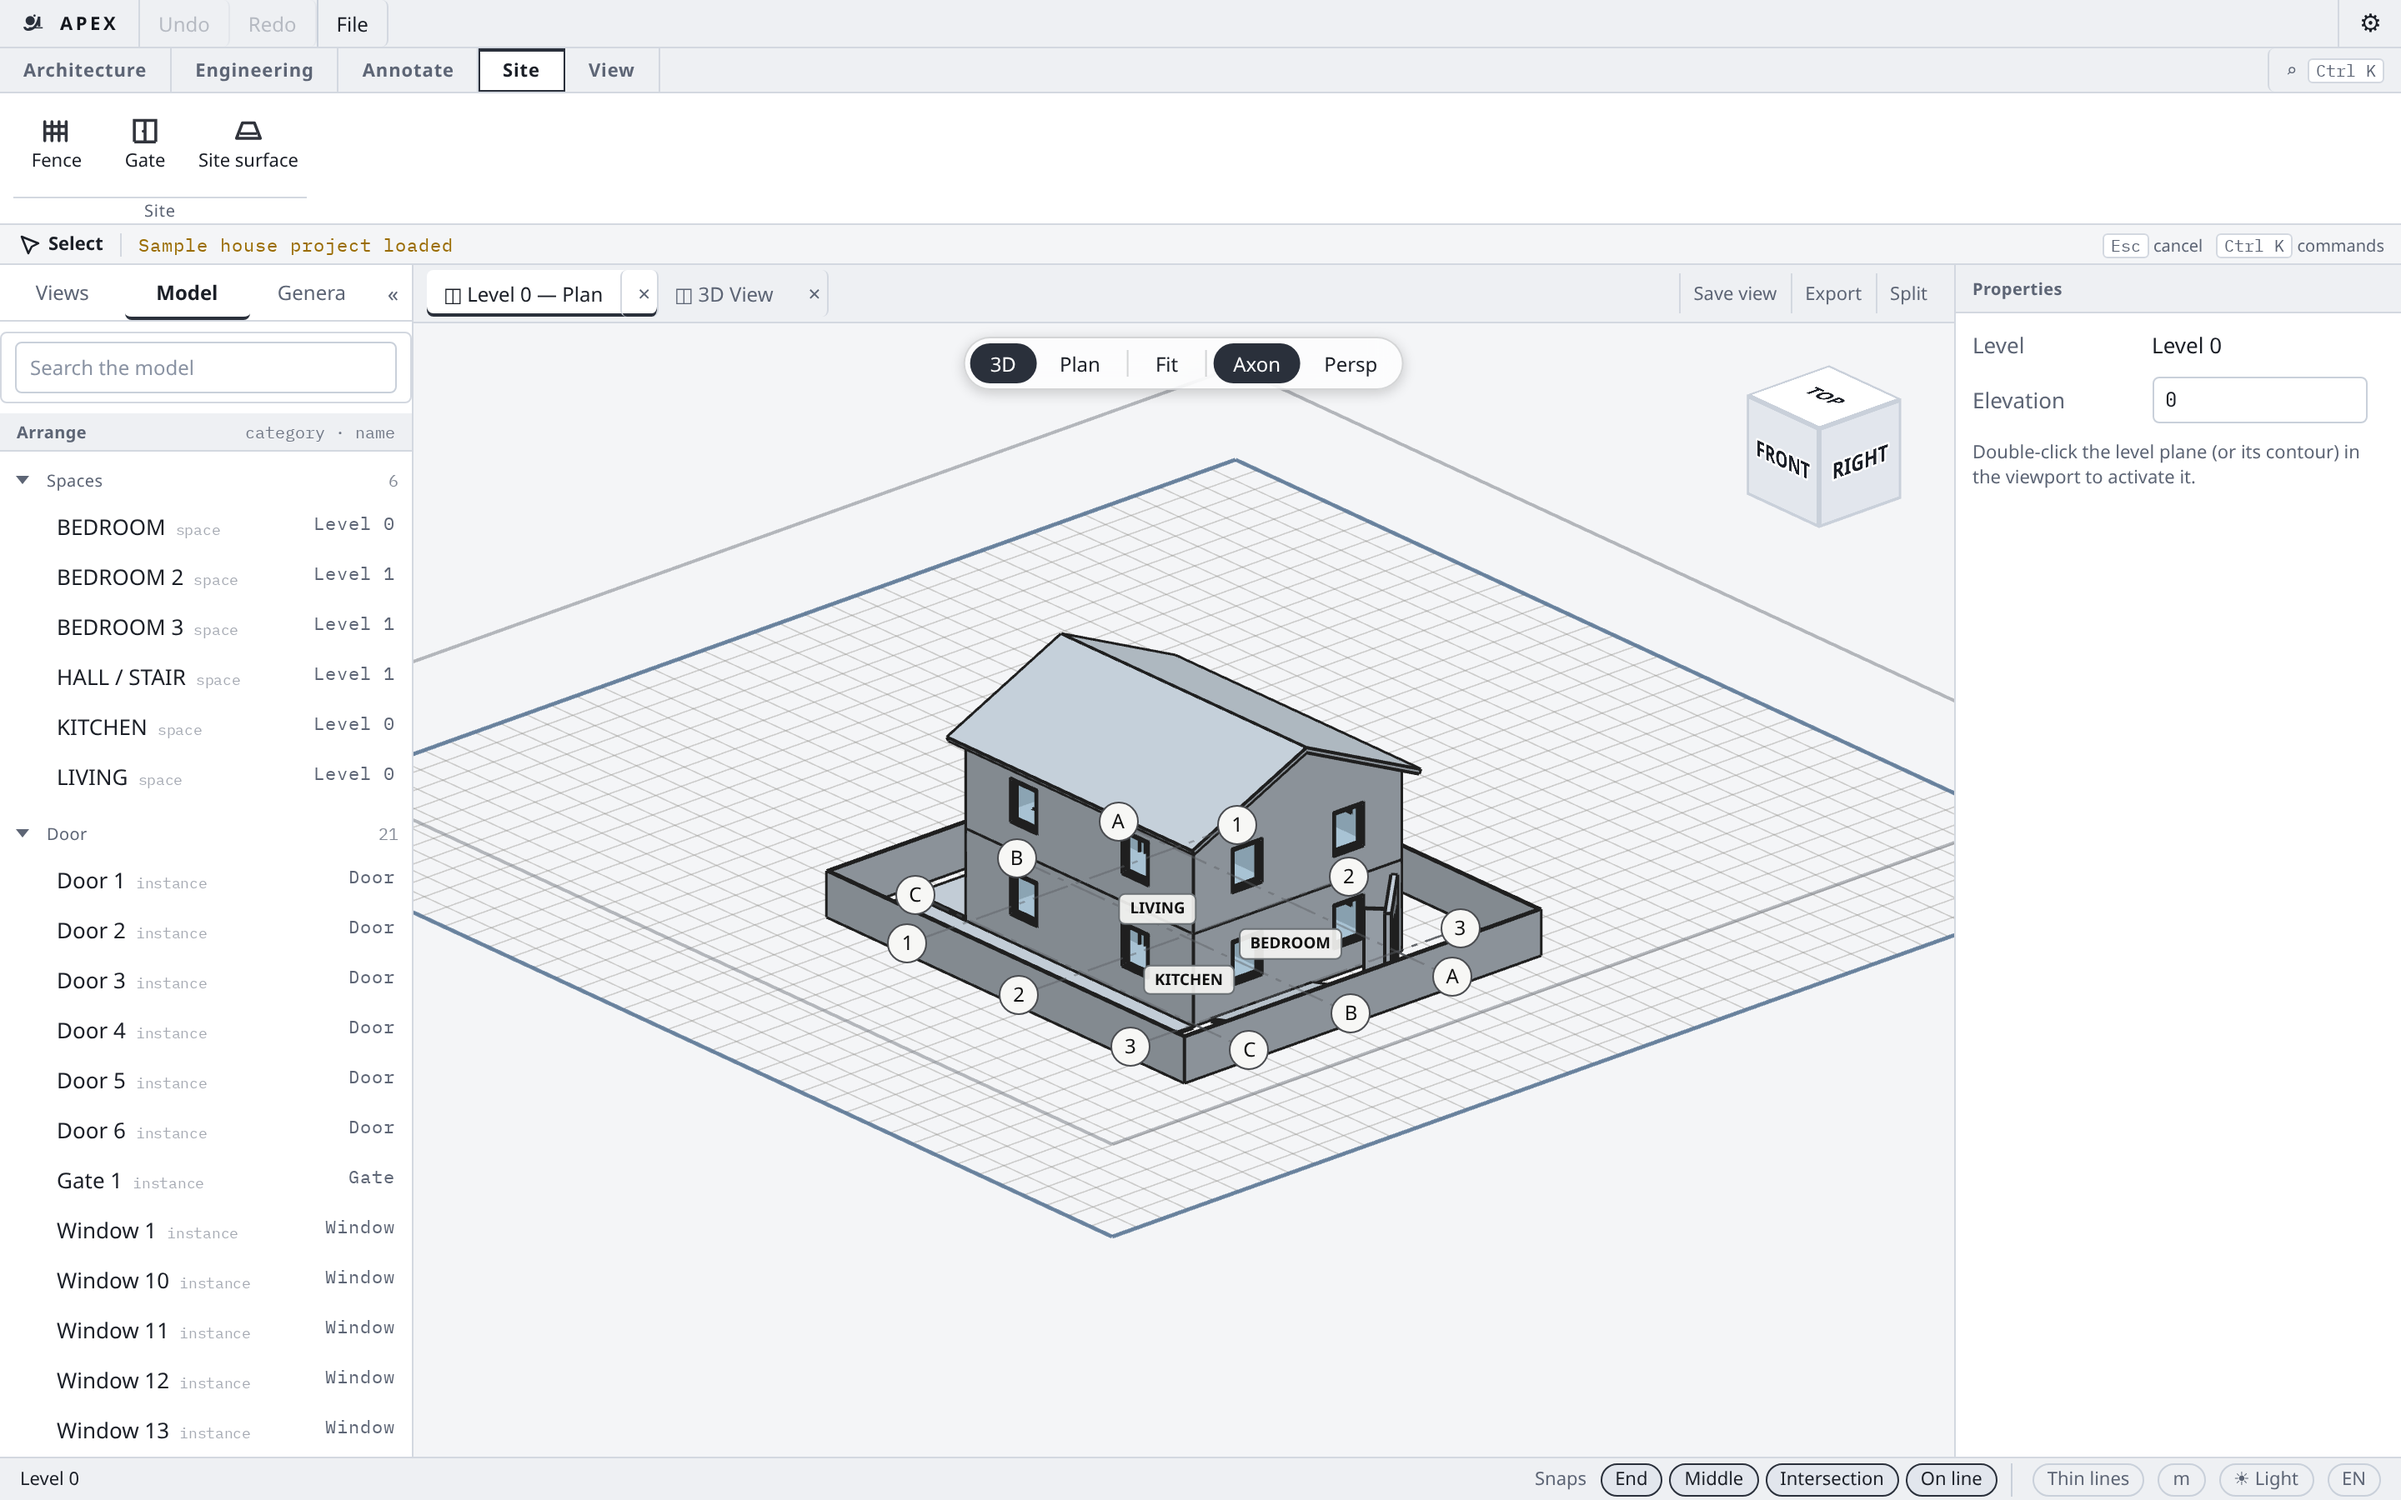
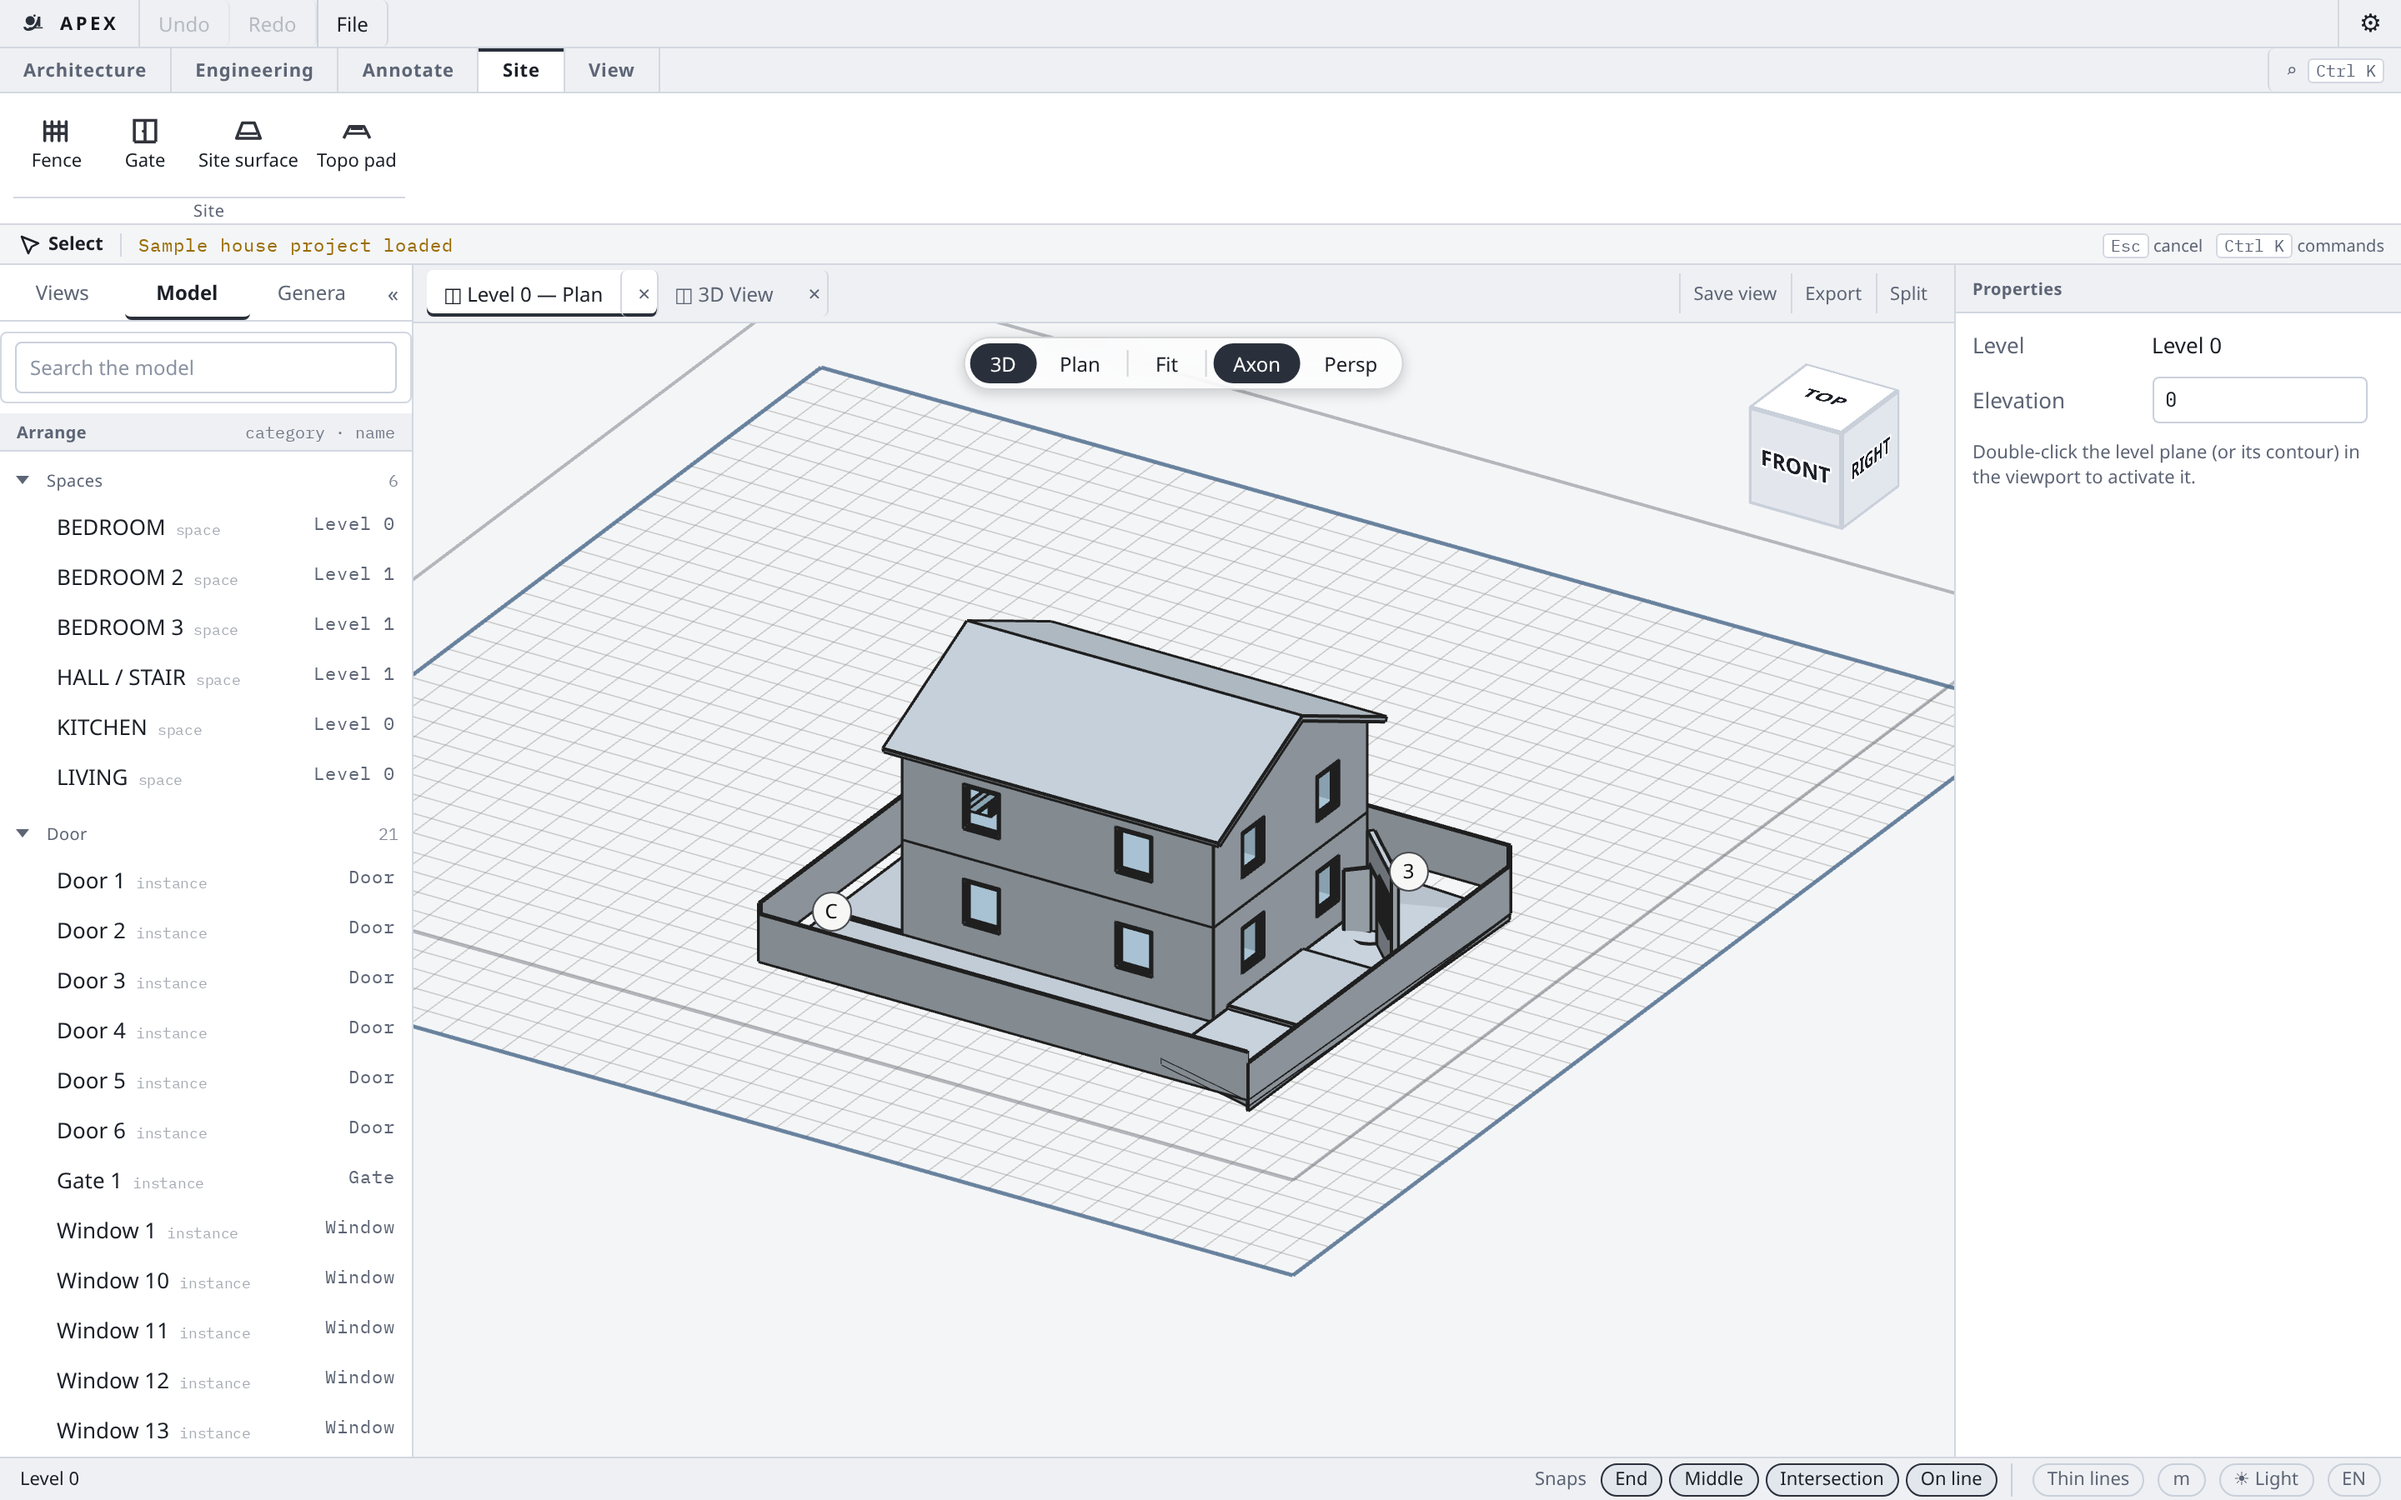
docs: refresh README gallery with yard, topo, and occluded axes
Reshoot full-chrome screenshots on the axis-bubble occlusion tip
(#182) so grid heads no longer punch through solids; include the
graded topo pad and Site tools. Update bilingual EN/RU sample copy
now that topo is on main, and extend the regenerate helper.

diff --git a/README.md b/README.md
@@ -11,7 +11,7 @@ Apex is a lightweight **BIM** app for buildings and site work — walls, opening
 ### What you get
 
 - Place building elements (walls, columns, beams, slabs, doors, windows, stairs, roofs) and **spaces**
-- **Site / landscape** tools: fence, gate, yard surfaces (lawn, paved, driveway); link a **DXF** as a plan underlay
+- **Site / landscape** tools: fence, gate, yard surfaces (lawn, paved, driveway), graded **topo pads**; link a **DXF** as a plan underlay
 - Toggle first-party **system packs** in **Settings → Extensions** (Basics, Building, Engineering, Spaces, Site, Annotate, IFC)
 - Same UI in the browser and in a **Tauri 2** desktop shell (native Open / Save)
 - UI language: English or Russian
@@ -52,7 +52,7 @@ cd ../desktop && npm install && npm run dev
 
 ### Sample project
 
-The built-in sample is a two-storey house with rooms, a pitched roof, and a **yard**: joinable fence loop, gate at the entrance, and mixed site surfaces. Open **Site** in the toolbar for Fence / Gate / Site surface. Graded topography pads are tracked separately and may land after this README snapshot.
+The built-in sample is a two-storey house with rooms, a pitched roof, and a **yard**: graded **topo pad** (SE slopes), joinable fence loop, gate at the entrance, and mixed site surfaces (lawn / paved / driveway). Open **Site** in the toolbar for Fence / Gate / Site surface / Topo pad.
 
 ### Settings & packs
 
@@ -76,7 +76,7 @@ Apex — лёгкий **BIM**-редактор для зданий и участ
 ### Возможности
 
 - Конструкции здания (стены, колонны, балки, плиты, двери, окна, лестницы, кровли) и **пространства**
-- Вкладка **Участок / ландшафт**: забор, калитка, покрытия двора; **DXF** как связанная подложка плана
+- Вкладка **Участок / ландшафт**: забор, калитка, покрытия двора, **топоплощадки** (уклоны); **DXF** как связанная подложка плана
 - Системные **пакеты** включаются в **Настройки → Расширения**
 - Один и тот же интерфейс в браузере и в оболочке **Tauri 2** (системные диалоги Открыть / Сохранить)
 - Язык интерфейса: русский или английский
@@ -99,7 +99,7 @@ cd apps/web && npm install && npm run dev
 
 ### Образец проекта
 
-Двухэтажный дом с помещениями, скатной кровлей и **двором**: замкнутый забор, калитка у входа, разные покрытия. Инструменты участка — вкладка **Участок**. Рельеф (graded topo) развивается отдельно и может появиться позже этой версии README.
+Двухэтажный дом с помещениями, скатной кровлей и **двором**: топоплощадка с уклоном на юго-востоке, замкнутый забор, калитка у входа, покрытия (газон / мощение / проезд). Инструменты участка — вкладка **Участок** (Забор / Калитка / Покрытие / Топоплощадка).
 
 ### Настройки и пакеты
 
@@ -160,6 +160,7 @@ Shipped types use this structure (no bespoke per-type geometry forks in the shel
 | `apex.fence` | path (joinable) | thin profile along the path (Site pack) |
 | `apex.gate` | hosted on fence | opening cut in the host fence |
 | `apex.site_surface` | closed polyline | thin site region (lawn / paved / driveway) |
+| `apex.topo_pad` | closed polyline | graded pad; per-vertex Z via slab-shape edit |
 
 A **profile type** is the catalog object behind a `profile` parameter: draw a 2D
 section with the mouse, then assign edge dimensions. Type-level values are shared;
@@ -246,7 +247,7 @@ Each push to `main` redeploys via `.github/workflows/deploy-pages.yml`.
 
 ### Demo walkthrough
 
-1. Pick a tool. **Basics** / Architecture datums: **Level**, **Ref point** (the only point tool), **Ref plane**, **Construction line**, **Grid axis**, **Section cut**. Building tools: **Wall**, **Column**, **Beam**, **Slab**, openings, roofs. **Engineering**: Pipe / Duct / Cable tray. **Spaces**: closed **Space** polyline. **Site**: Fence / Gate / Site surface. With Wall or Fence active, switch **Line** / **Arc** / **Polyline** as offered.
+1. Pick a tool. **Basics** / Architecture datums: **Level**, **Ref point** (the only point tool), **Ref plane**, **Construction line**, **Grid axis**, **Section cut**. Building tools: **Wall**, **Column**, **Beam**, **Slab**, openings, roofs. **Engineering**: Pipe / Duct / Cable tray. **Spaces**: closed **Space** polyline. **Site**: Fence / Gate / Site surface / Topo pad. With Wall or Fence active, switch **Line** / **Arc** / **Polyline** as offered.
 2. Click the points that mode needs; a ghost previews the result. Finish polylines with double-click or Enter.
 3. Select an element. **This element** vs **Shared type** fields; **Edit profile** for the 2D sketch. Grid axes, construction lines, section cuts, and spaces edit from the same inspector pattern.
 4. The left **Project** browser lists types, instances, references, grids, annotations, and spaces. **Save** downloads the project (also stored in the browser); **Open** loads a file; **New** starts over.
@@ -318,7 +319,7 @@ instances. Still mesh-only — no parametric round-trip.
 - Richer IFC import; optional IfcOpenShell sidecar
 - Auto-update / signed desktop releases; community plugin marketplace
 - Rotate / mirror / array transforms; richer MEP fittings
-- Graded topography / civil TIN beyond the current yard surfaces
+- Full civil TIN / contour suite beyond graded topo pads
 
 ## Geometry kernels
 
